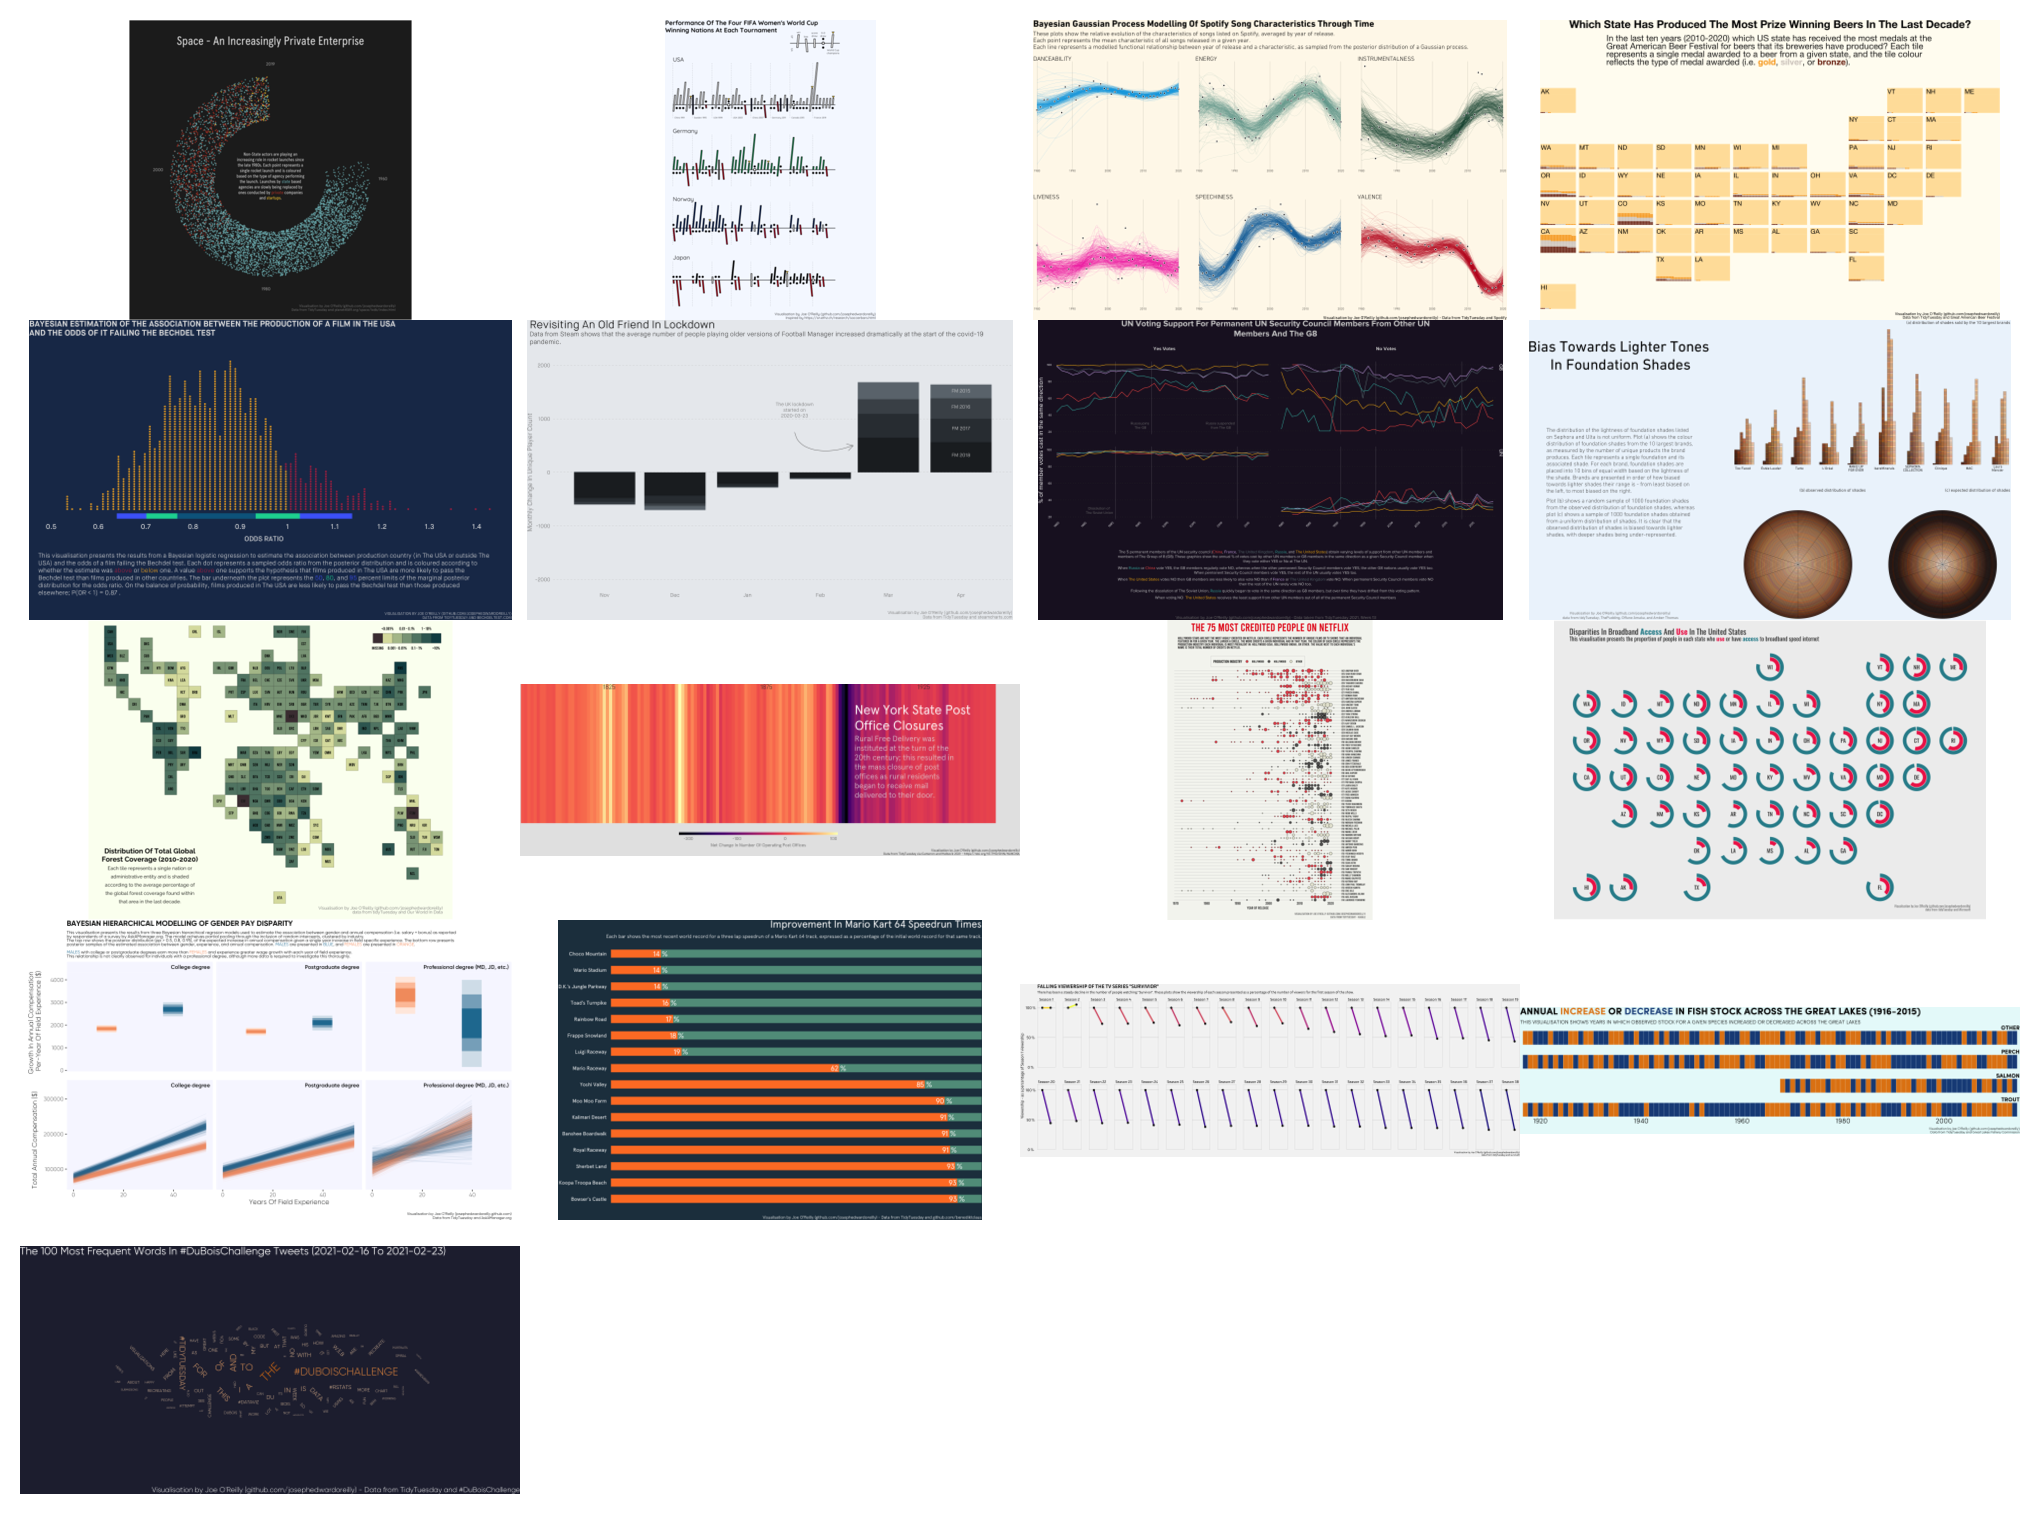
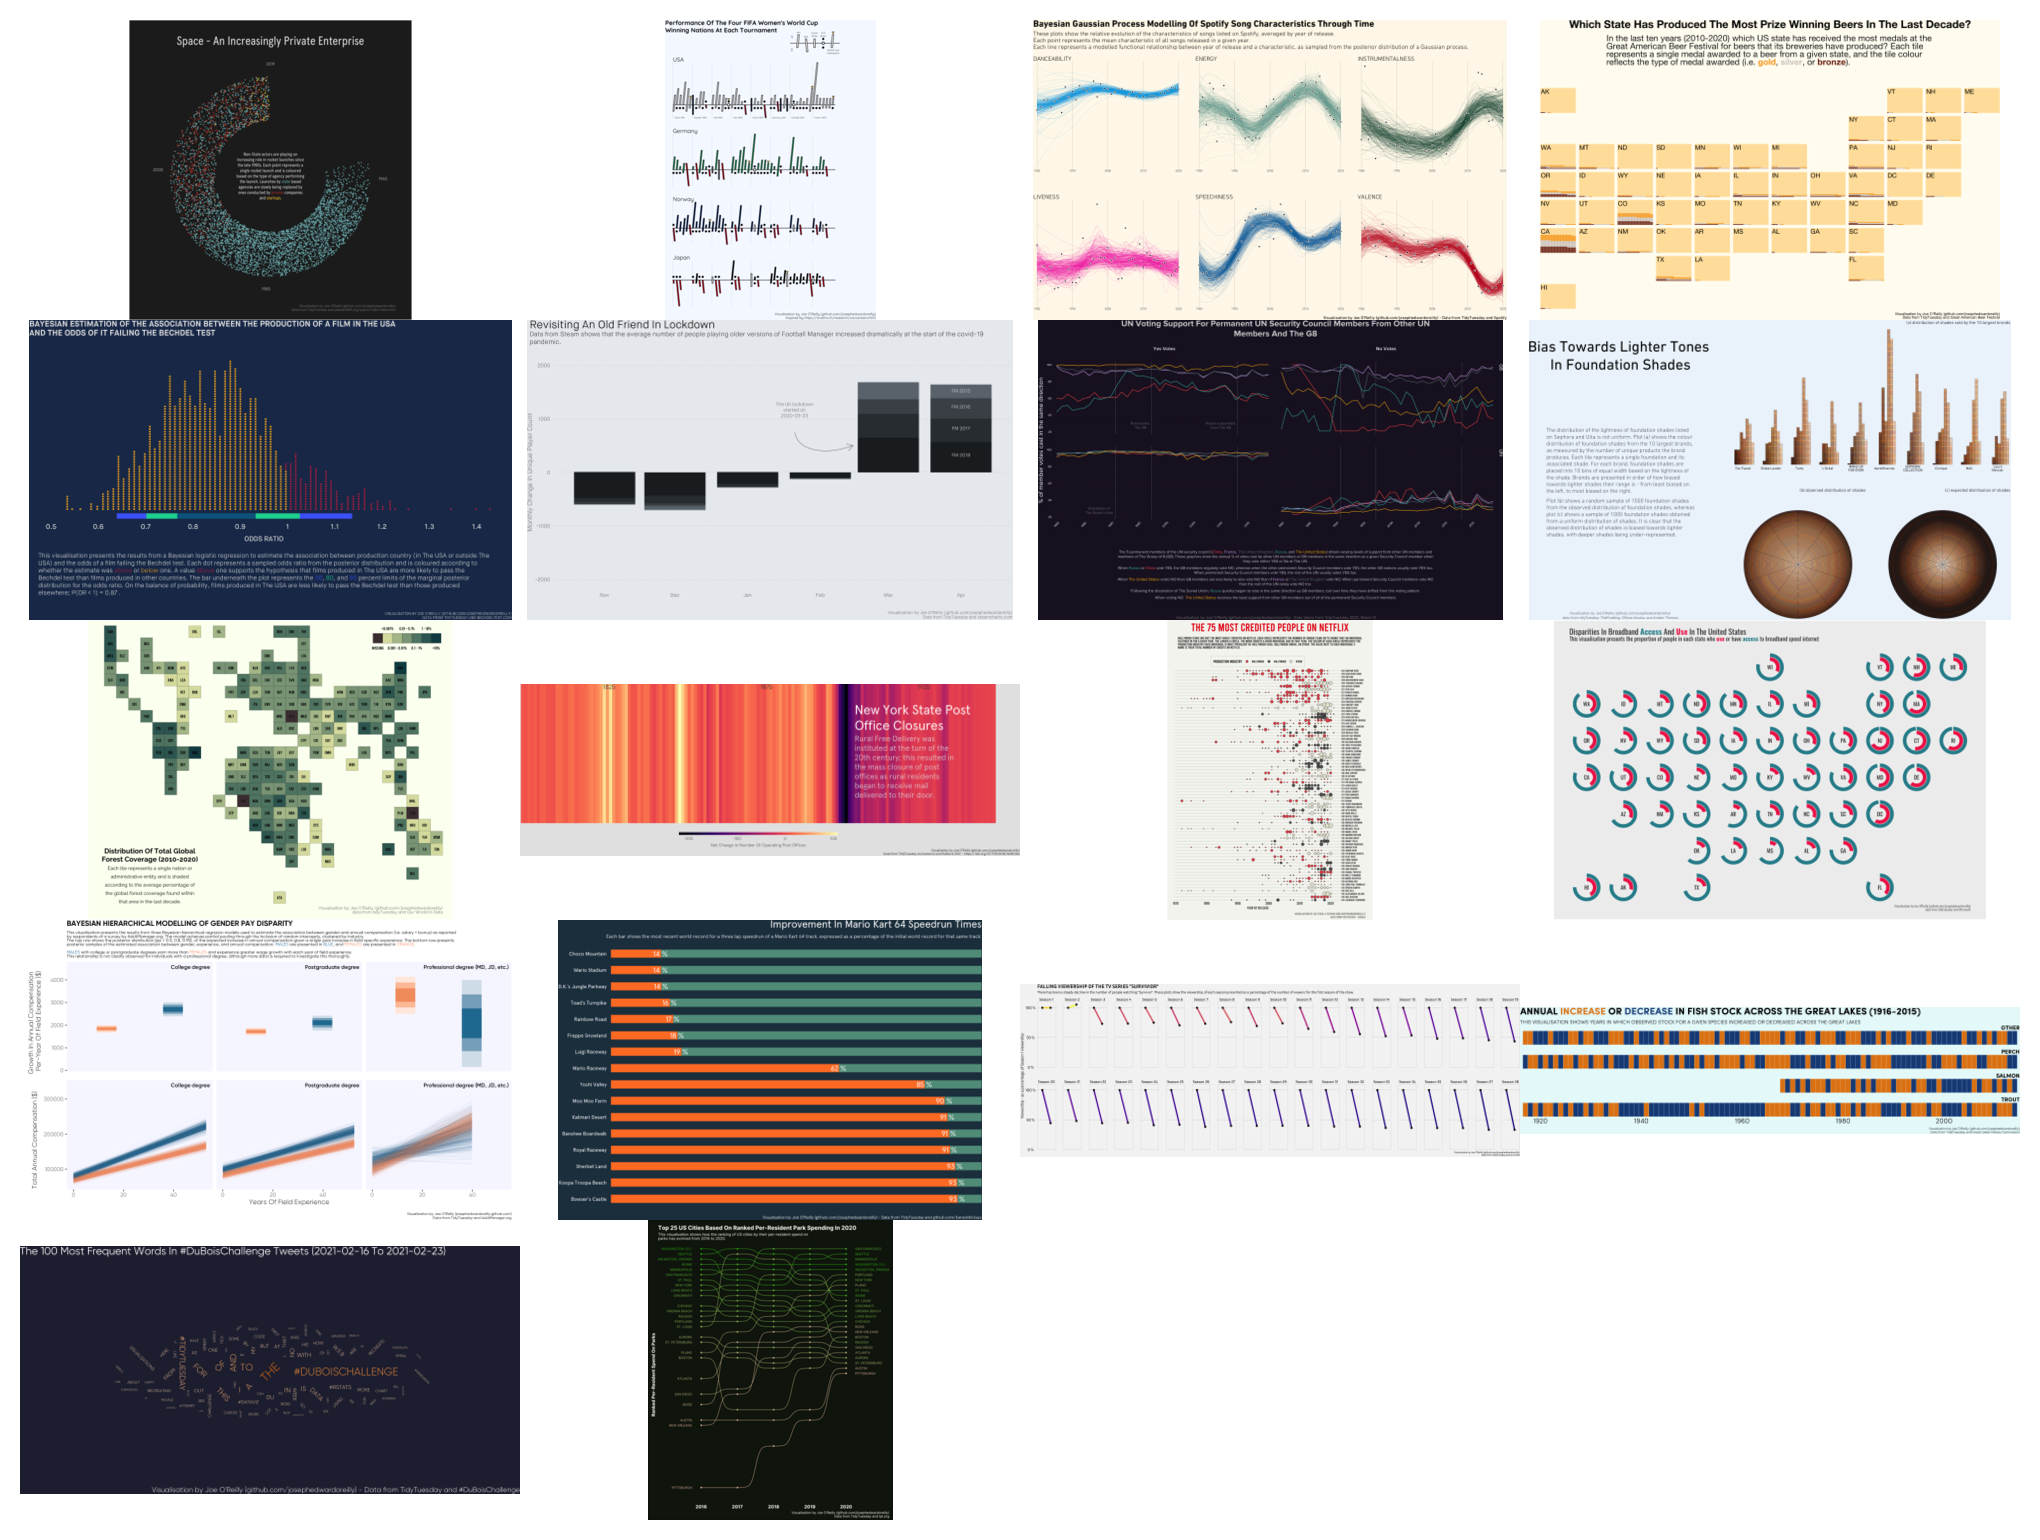
added code, readme, and updated collage for the parks plot

Changed region(s): [[0.3088, 0.7792, 0.4632, 0.9974]]

diff --git a/README.md b/README.md
@@ -9,6 +9,11 @@ Some TidyTuesday plots I have created. All are made in R with ggplot2 and relate
 
 ***
 
+### [2021-06-22](https://github.com/josephedwardoreilly/TidyTuesday/blob/master/src/tt_Parks.R)  Parks
+![./plots/2021-06-22.png](https://raw.githubusercontent.com/josephedwardoreilly/TidyTuesday/master/plots/2021-06-22.png)
+
+***
+
 ### [2021-06-15](https://github.com/josephedwardoreilly/TidyTuesday/blob/master/src/tt_Dubois.R)  Du Bois Challenge Tweets
 ![./plots/2021-06-15.png](https://raw.githubusercontent.com/josephedwardoreilly/TidyTuesday/master/plots/2021-06-15.png)
 
